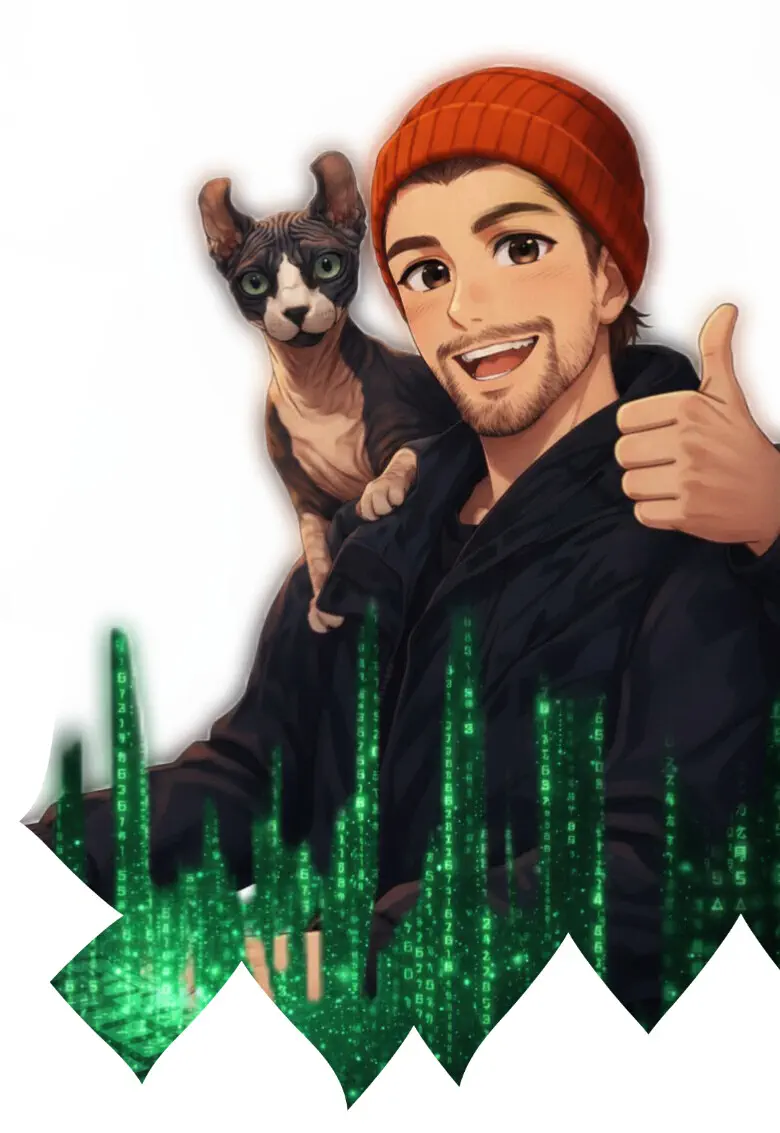
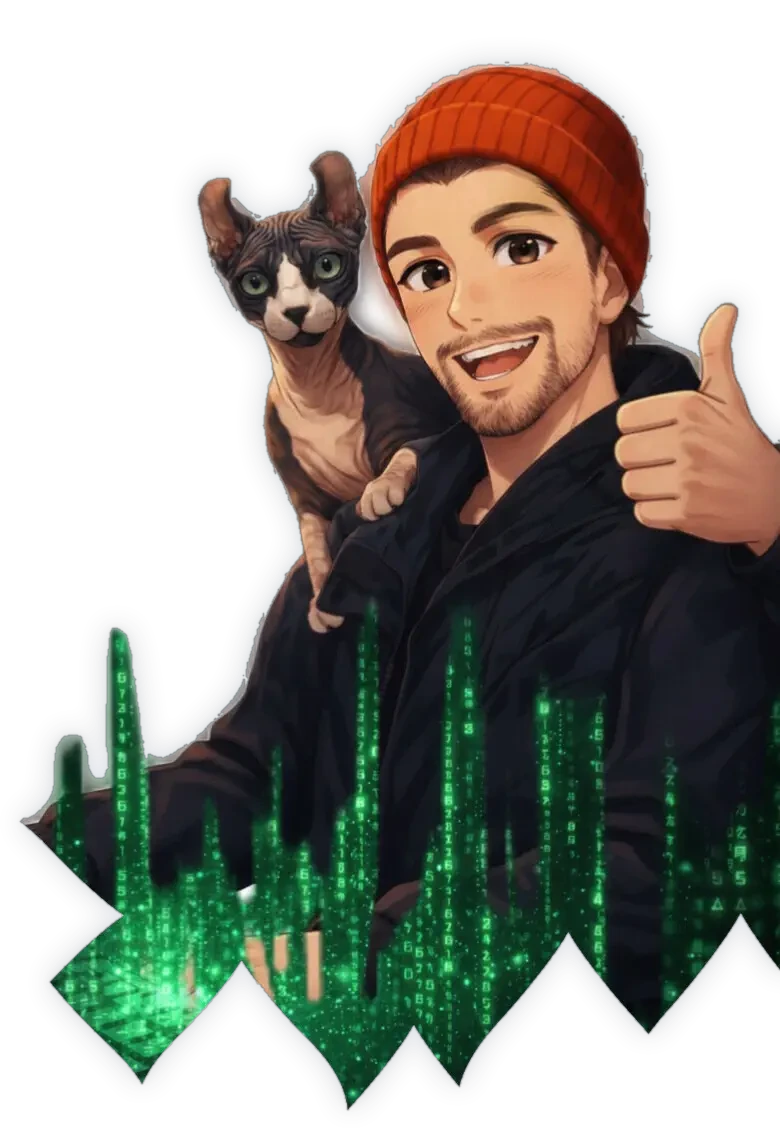
docs: use transparent tech stack image

diff --git a/README.md b/README.md
@@ -51,11 +51,7 @@ Currently: Building products for medical workflows, senior-friendly mobile apps,
 | [Gaminco](https://gaminco.eu/) | Automation and internal tooling for a consulting company: telemetry backend, newsletter/data flows, deployment scripts, VPS operations, and repeatable workflows for quality, security, and delivery. | React, Vite, Node.js, PostgreSQL, PowerShell, VPS |
 
 ## Tech stack
-<picture>
-  <source media="(prefers-color-scheme: dark)" srcset="assets/1000007684-dark.webp" />
-  <source media="(prefers-color-scheme: light)" srcset="assets/1000007684.webp" />
-  <img src="assets/1000007684.webp" alt="Tech stack illustration" height="450" align="right" />
-</picture>
+<img src="assets/1000007684.webp" alt="Tech stack illustration" height="450" align="right" />
 
 
 <strong>Systems & Platforms</strong><br />
